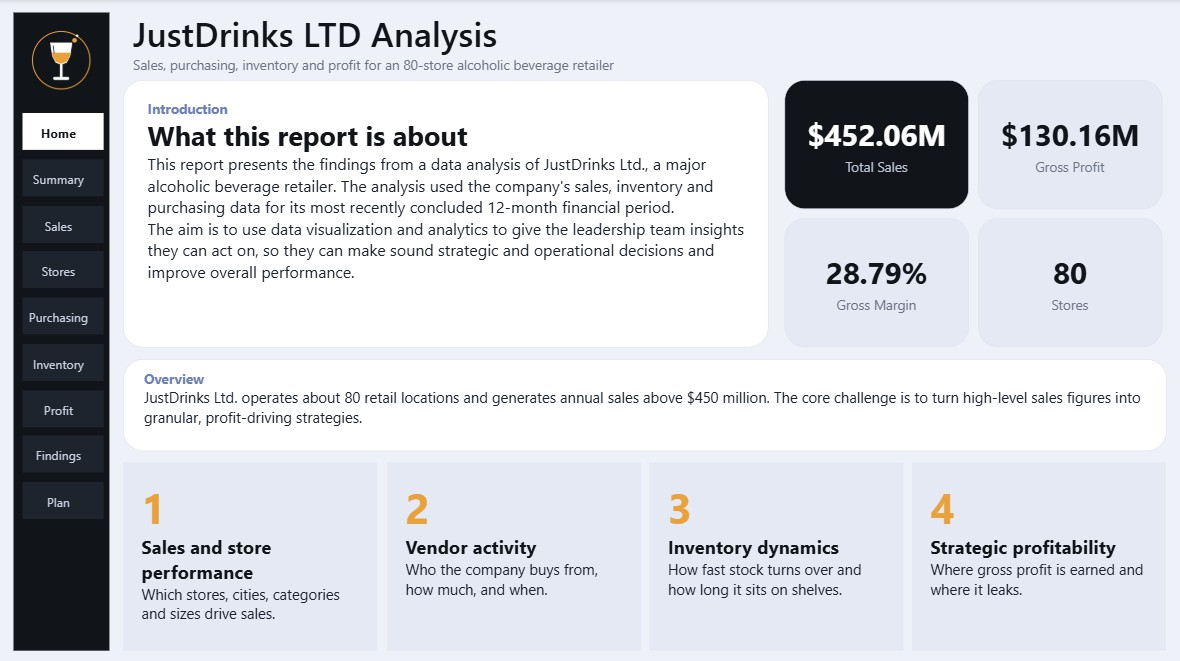
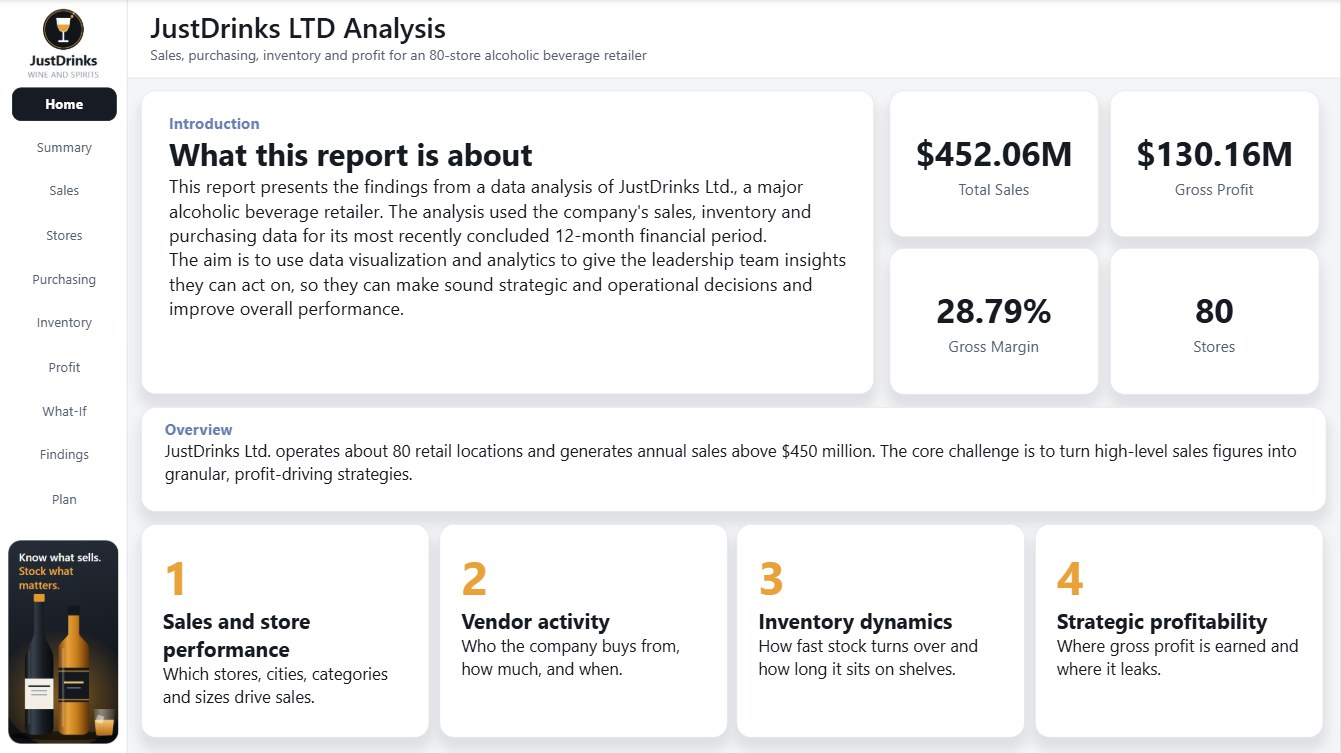
Update README screenshots to the new report design
Capture all 13 report pages, add the What-If section, and fix the What-If
cards so dollar values no longer show a doubled M.

diff --git a/README.md b/README.md
@@ -66,7 +66,7 @@ The work covers the full BI cycle:
 
 ## Report pages
 
-Click any image to view full size. These screenshots show the previous design. The current report has the JustDrinks branding and a What-If page, and new screenshots are on the way.
+Click any image to view full size.
 
 ### 1. Home
 
@@ -108,25 +108,31 @@ Click any image to view full size. These screenshots show the previous design. T
 
 ![Profitability](docs/screenshots/07-profitability.jpg)
 
-### 8. Key findings
+### 8. What-if scenarios
 
-![Key findings](docs/screenshots/08-key-findings.jpg)
+*What better vendor terms and stronger weak stores could add, in three scenarios. The live sliders are in the web dashboard.*
 
-### 9. Insights
+![What-if scenarios](docs/screenshots/08-what-if.jpg)
 
-![Insights](docs/screenshots/09-insights.jpg)
+### 9. Key findings
 
-### 10. Recommendations
+![Key findings](docs/screenshots/09-key-findings.jpg)
 
-![Recommendations](docs/screenshots/10-recommendations.jpg)
+### 10. Insights
 
-### 11. Future data needs
+![Insights](docs/screenshots/10-insights.jpg)
 
-![Future data needs](docs/screenshots/11-future-data-needs.jpg)
+### 11. Recommendations
 
-### 12. Summary
+![Recommendations](docs/screenshots/11-recommendations.jpg)
 
-![Summary](docs/screenshots/12-summary.jpg)
+### 12. Future data needs
+
+![Future data needs](docs/screenshots/12-future-data-needs.jpg)
+
+### 13. Summary
+
+![Summary](docs/screenshots/13-summary.jpg)
 
 For the story behind each page, see [the strategic brief](docs/JustDrinks-Strategic-Brief.pdf).
 
